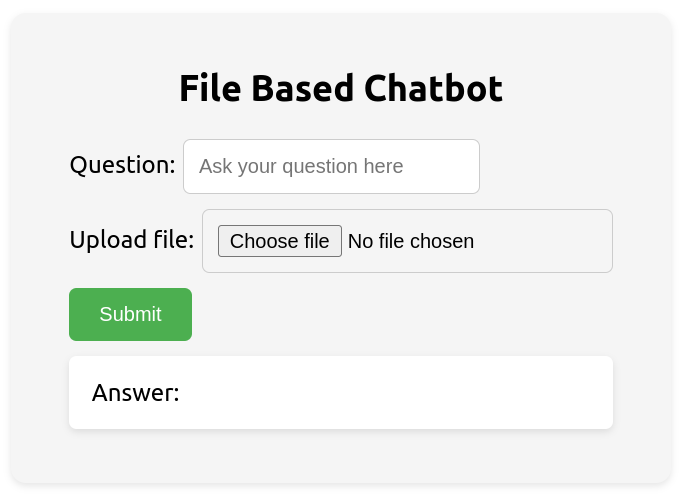
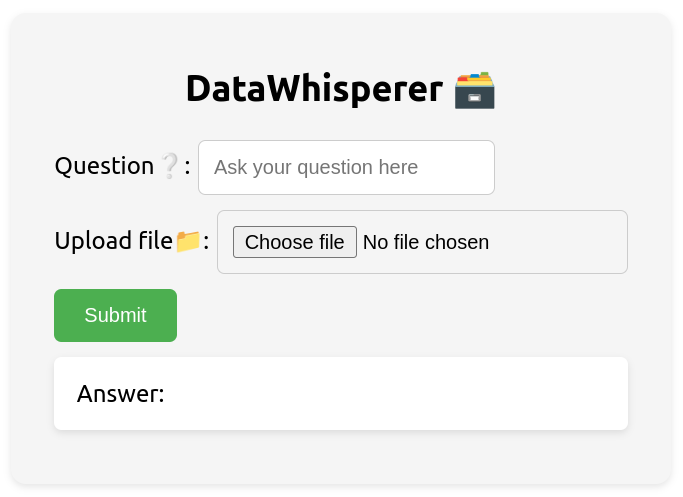
Change the name to DataWhisperer

diff --git a/frontend/src/App.tsx b/frontend/src/App.tsx
@@ -58,11 +58,11 @@ export default function App() {
 
   return (
     <div className="chatbot-container">
-      <h1 className="chatbot-title">File Based Chatbot</h1>
+      <h1 className="chatbot-title">DataWhisperer 🗃</h1>
       <div className="appBlock">
         <form onSubmit={handleSubmit} className="form">
           <label className="questionLabel" htmlFor="question">
-            Question:
+            Question❔:
           </label>
           <input
             className="questionInput"
@@ -75,7 +75,7 @@ export default function App() {
 
           <br></br>
           <label className="fileLabel" htmlFor="file">
-            Upload file:
+            Upload file📁:
           </label>
 
           <input

diff --git a/README.md b/README.md
@@ -1,8 +1,8 @@
-# File Based Chatbot
+# Data Whisperer 🗃
 
 ## Introduction
 
-File Based Chatbot is a chatbot that allows you to analyze your local files using Large Language Models (LLMs). You can upload PDFs, Markdown, Text, and Document files to the chatbot and ask questions related to the content of those files.
+Data Whisperer 🗃 is a chatbot that allows you to analyze your local files using Large Language Models (LLMs). You can upload PDFs, Markdown, Text, and Document files to the chatbot and ask questions related to the content of those files.
 
 ## Execution of Project
 
